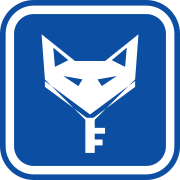
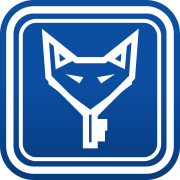
Draw the fox mark as a white outline on a double-ruled blue tile
Same fox and key shape, recoloured to match the owner's reference: white
outline with solid eyes and cheek line, blue showing through, two white
rules round the tile and a gentle top-to-bottom deepening of the blue.
Applied to the header, footer, favicon, logo.png, OG image and van decals.

Claude-Session: https://claude.ai/code/session_015pg5xbZa1zQf5X3esDA7Mo

diff --git a/scripts/van-scene.html b/scripts/van-scene.html
@@ -21,7 +21,7 @@ canvas { display: block; }
 import * as THREE from 'three';
 import { RoomEnvironment } from 'three/addons/environments/RoomEnvironment.js';
 import { RoundedBoxGeometry } from 'three/addons/geometries/RoundedBoxGeometry.js';
-import { FOX_HEAD, FOX_BLADE } from '/src/brand/fox.mjs';
+import { drawFox } from '/src/brand/fox.mjs';
 
 const q = new URLSearchParams(location.search);
 const OUT_W = +(q.get('w') || 2400), OUT_H = +(q.get('h') || 1200);
@@ -402,7 +402,7 @@ for (const wx of [FX, RX]) for (const side of [1, -1]) {
 }
 
 // ---------------------------------------------------------------- livery
-const fox = (ctx, x, y, w, fill) => { ctx.save(); ctx.translate(x, y); ctx.scale(w / 64, w / 64); ctx.fillStyle = fill; ctx.fill(new Path2D(FOX_HEAD), 'evenodd'); ctx.fill(new Path2D(FOX_BLADE)); ctx.restore(); };
+const fox = drawFox;
 const rr = (ctx, x, y, w, h, r) => { ctx.beginPath(); ctx.roundRect(x, y, w, h, r); };
 const fitText = (ctx, text, x, y, maxW, font) => { ctx.font = font; const w = ctx.measureText(text).width; ctx.save(); ctx.translate(x, y); if (w > maxW) ctx.scale(maxW / w, 1); ctx.fillText(text, 0, 0); ctx.restore(); };
 const decal = (canvas, x0, x1, y0, y1) => {
@@ -433,8 +433,8 @@ function doorCanvas() {
   const c = document.createElement('canvas'); c.width = 1200; c.height = 560;
   const x = c.getContext('2d');
   x.fillStyle = BLUE; rr(x, 10, 40, 300, 300, 48); x.fill();
-  x.strokeStyle = '#FFFFFF'; x.lineWidth = 14; rr(x, 30, 60, 260, 260, 32); x.stroke();
-  fox(x, 82, 92, 156, '#FFFFFF');
+  x.strokeStyle = '#FFFFFF'; x.lineWidth = 12; rr(x, 28, 58, 264, 264, 34); x.stroke(); x.lineWidth = 6; rr(x, 46, 76, 228, 228, 22); x.stroke();
+  fox(x, 78, 92, 164, '#FFFFFF');
   x.fillStyle = INK; fitText(x, 'FOXKEY', 350, 210, 820, '900 200px Overpass');
   x.fillStyle = BLUE; x.font = '900 110px Overpass'; x.letterSpacing = '30px'; x.fillText('HGV', 358, 330); x.letterSpacing = '0px';
   x.fillStyle = INK; x.font = '800 74px Overpass'; x.fillText('Goole  ·  up to 150 miles  ·  24/7', 14, 480);

diff --git a/src/styles/global.css b/src/styles/global.css
@@ -98,7 +98,7 @@
   }
 
   /* Logo tile: a small motorway sign (blue, white inset rule) holding the fox pictogram */
-  .sign-tile { display: inline-flex; flex-shrink: 0; align-items: center; justify-content: center; background: var(--color-sign); color: var(--color-on-sign); border-radius: var(--radius-md); box-shadow: inset 0 0 0 2px var(--color-sign), inset 0 0 0 4px var(--color-on-sign); }
+  .sign-tile { display: inline-flex; flex-shrink: 0; align-items: center; justify-content: center; background: linear-gradient(180deg, var(--color-sign) 0%, var(--color-sign) 45%, var(--color-sign-dark) 100%); color: var(--color-on-sign); border-radius: var(--radius-md); box-shadow: inset 0 0 0 2px var(--color-sign), inset 0 0 0 3.5px var(--color-on-sign), inset 0 0 0 5px var(--color-sign), inset 0 0 0 6px var(--color-on-sign); }
 
   /* Motorway direction sign: blue panel, white rule inset, white route shields */
   .sign { background: var(--color-sign); color: var(--color-on-sign); border: 4px solid var(--color-on-sign); border-radius: var(--radius-sign); box-shadow: 0 0 0 3px var(--color-sign); }

diff --git a/CLAUDE.md b/CLAUDE.md
@@ -4,7 +4,7 @@ Astro 5 + Tailwind 4 static site for **FoxKey HGV**, a mobile lorry/HGV locksmit
 
 ## Current design system: Direction A, "UK road signage" (rebuilt from zero)
 
-- Idea: the site looks like British road furniture. White ground, motorway-sign blue (`sign` #0B4EA2) for structure and page heads, number-plate yellow (`plate` #FFD500, black text) as the only filled colour for the primary action, prohibition red (`stop` #C2271D) only for "What we don't do". The logo is one colour: a white fox pictogram (chin runs into a key blade) on a small blue sign tile (`.sign-tile`), shape shared from `src/brand/fox.mjs`. No orange anywhere.
+- Idea: the site looks like British road furniture. White ground, motorway-sign blue (`sign` #0B4EA2) for structure and page heads, number-plate yellow (`plate` #FFD500, black text) as the only filled colour for the primary action, prohibition red (`stop` #C2271D) only for "What we don't do". The logo (owner-approved reference): a white OUTLINE fox (head outline runs into the key; solid white eyes and cheek line) on a blue tile with a double white rule and a slight darkening towards the bottom (`.sign-tile`). Shape and drawing helpers in `src/brand/fox.mjs` (`FoxMark`, `foxSvg`, `drawFox`). No orange anywhere.
 - Type: Overpass Variable (open-source face derived from highway sign lettering), self-hosted via `@fontsource-variable/overpass` and preloaded. Scale in `src/styles/global.css`: `t-display`, `t-display-long`, `t-h1`, `t-h2`, `t-h3`, `t-lead`, `t-body`, `t-ui`, `t-small`, `t-label`.
 - Tokens in `@theme`: paper, surface, line, line-soft, ink, ink-soft, muted, sign, sign-dark, sign-soft, on-sign, on-sign-muted, plate, plate-hover, plate-soft, plate-ink, plate-band, stop, stop-soft, whatsapp. Radii: `rounded-sm` 4, `rounded-md` 8, sign 14.
 - Buttons: `btn-call` (yellow, the one primary), `btn-ink`, `btn-outline`, `btn-outline-light` (on blue). WhatsApp gets `btn-wa` (green icon only).
